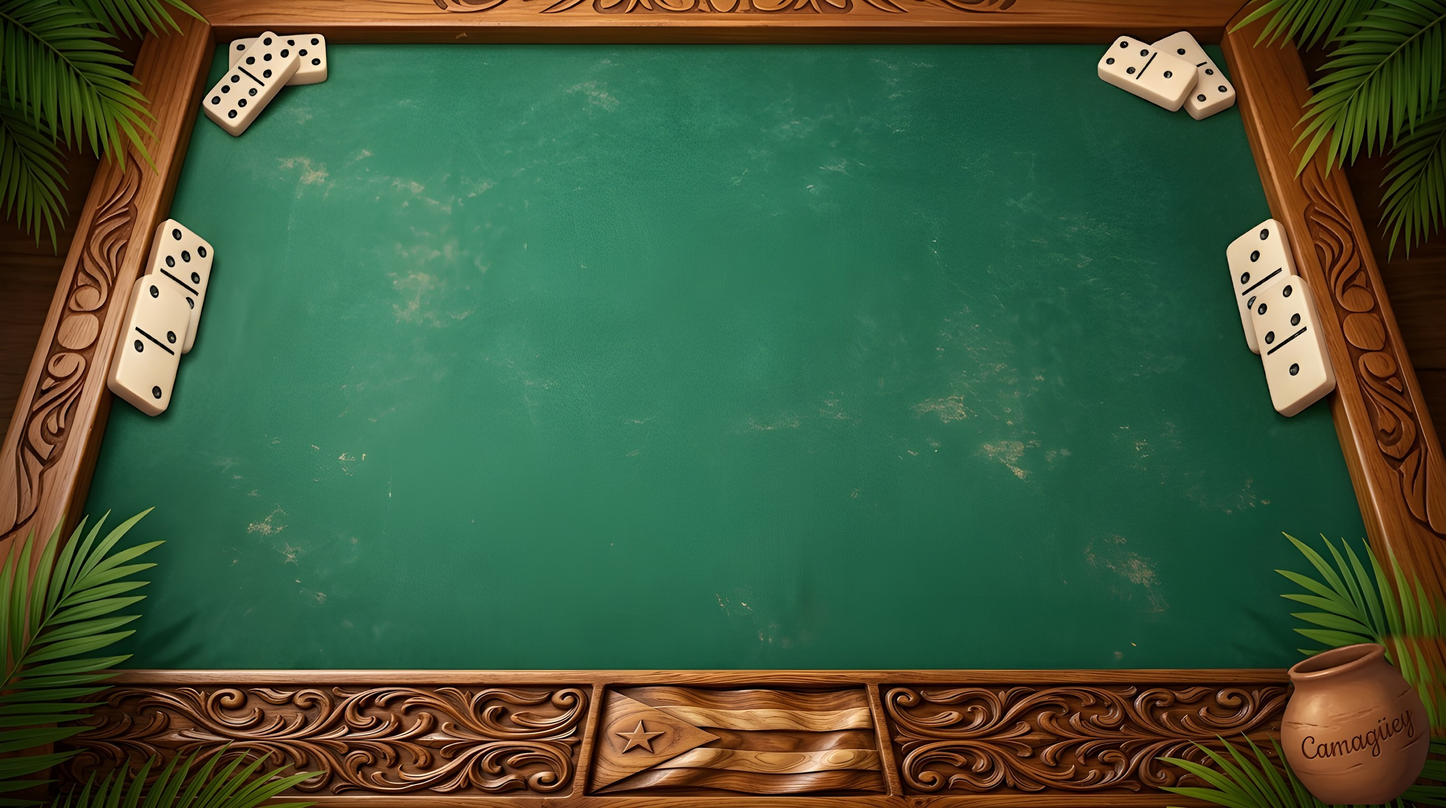
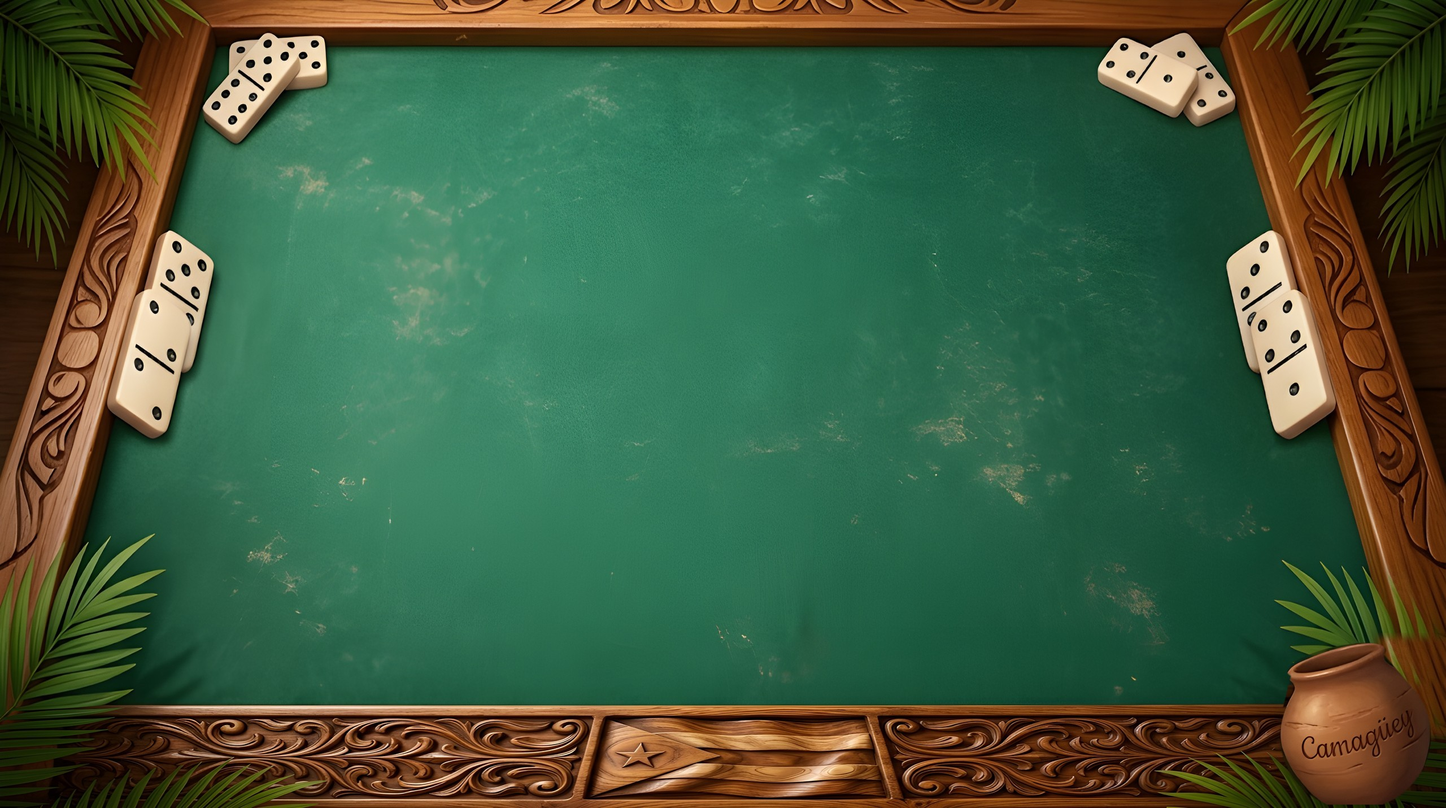
Dominó v3.10.12: marco de abajo más bajo, bandera tallada en perspectiva
Claude-Session: https://claude.ai/code/session_01HKF46mV7qa6c38wyQzgURD

diff --git a/domino/app/src/main/assets/www/index.html b/domino/app/src/main/assets/www/index.html
@@ -390,7 +390,7 @@ body.mesa #lobby:not([hidden])~#cred,body.mesa #menu p#cred{display:none!importa
   /* fondo de mesa de madera con palmas (diseño de Gemini) y botones con brillo y relieve */
   body.home #menu{background:#0b1a12 url(bg_home.jpg) center/100% 100% no-repeat}
   /* fondo con la bandera tallada y el tinajón de Camagüey: botones dentro del paño, sin el subtítulo ni la bandera suelta */
-  body.home #menu{padding-bottom:17vh!important} body.home #menu h1{margin-top:4.5vh;font-size:6.2vh!important} body.home #menu>p:not(#cred){display:none!important}
+  body.home #menu{padding-bottom:13vh!important} body.home #menu h1{margin-top:4.5vh;font-size:6.2vh!important} body.home #menu>p:not(#cred){display:none!important}
   body.home #pick{gap:1.4vh!important;width:68vw!important;max-width:68vw!important} body.home #cuba .cmg{display:none!important} body.home #cuba{min-height:6vh} body.home #cuba .flag{visibility:hidden}
   body.home #cuba .cmg svg{display:none} body.home #cuba .cmg{right:2.5vw;bottom:2px}
   body.home #menu h1{text-shadow:0 3px 0 #5e3214,0 0 18px rgba(0,0,0,.6)}
@@ -3005,7 +3005,7 @@ var qrcode = function() {
 </script>
 <script>
 (()=>{
-const VERSION='v3.10.11';
+const VERSION='v3.10.12';
 document.getElementById('ver').textContent=VERSION;
 const clamp=(v,a,b)=>v<a?a:v>b?b:v;
 const inApp=!!window.KikoApp;
